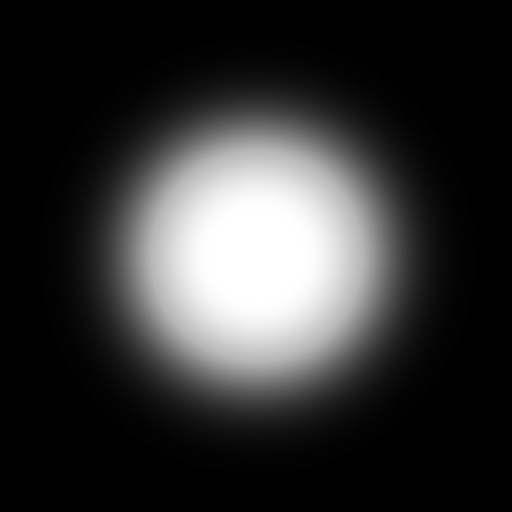
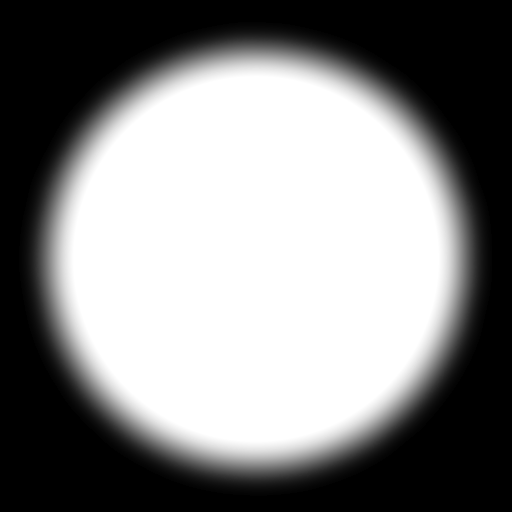
missiles face camera missile now have alpha map

diff --git a/src/app/missile.js b/src/app/missile.js
@@ -5,7 +5,7 @@ function Missile(game) {
     missile.model = null;
     missile.speed = 0.05;
     missile.origin = null;
-    missile.maxDistance = 100;
+    missile.maxDistance = 500;
 
     missile.initialize = function() {
         missile.spawn();
@@ -17,6 +17,10 @@ function Missile(game) {
         missile.model.position.x = (missile.origin.x) / near;
         missile.model.position.y = (missile.origin.y) / near;
         missile.model.position.z = (missile.origin.z) / near;
+    };
+
+    missile.setRotation = function() {
+        missile.model.lookAt(game.playerCamera.camera.position);
     };
 
     missile.travel = function() {
@@ -34,6 +38,7 @@ function Missile(game) {
     };
 
     missile.onFrameListener = function() {
+        missile.setRotation();
         missile.travel();
         missile.despawn();
     };
@@ -44,6 +49,9 @@ function Missile(game) {
 
     missile.spawn = function() {
         missile.model = game.models.addToScene("missile");
+
+        //missile.model.children[0].material.alphaMap =
+
         missile.setPosition();
         missile.setTravel();
     };

diff --git a/src/app/models.js b/src/app/models.js
@@ -12,6 +12,9 @@ function Models(game) {
         gun: "/QuackDamage/dae/q3rocket.dae",
         missile: "/QuackDamage/dae/missile.dae"
     };
+    models.alphas = {
+        missile: THREE.ImageUtils.loadTexture("/QuackDamage/dae/missile_alpha.png")
+    };
 
     models.initialize = function() {
         models.load(models.list);
@@ -31,6 +34,9 @@ function Models(game) {
                 value,
                 function (collada) {
                     models.loaded[key] = collada;
+                    if (key in models.alphas) {
+                        models.loaded[key].scene.children[0].material.alphaMap = models.alphas[key];
+                    }
                     models.attemptFinalize();
                 },
                 function (xhr) {
